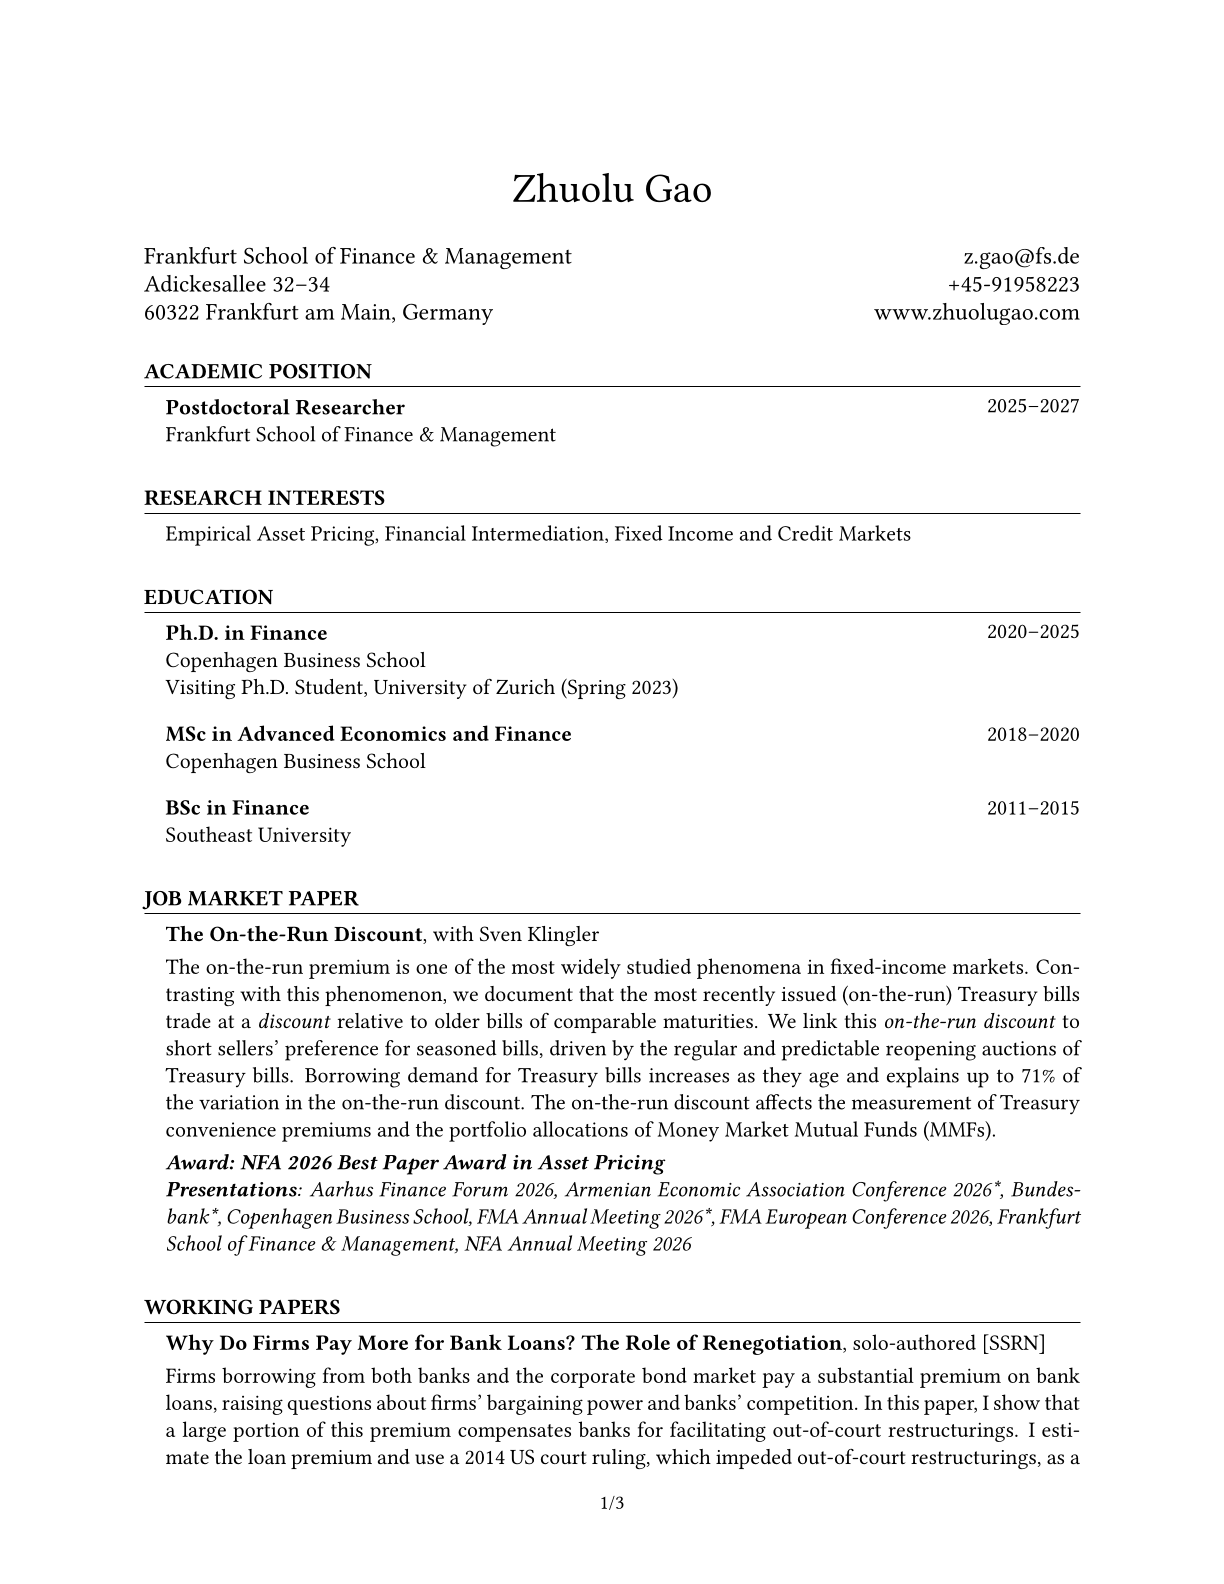
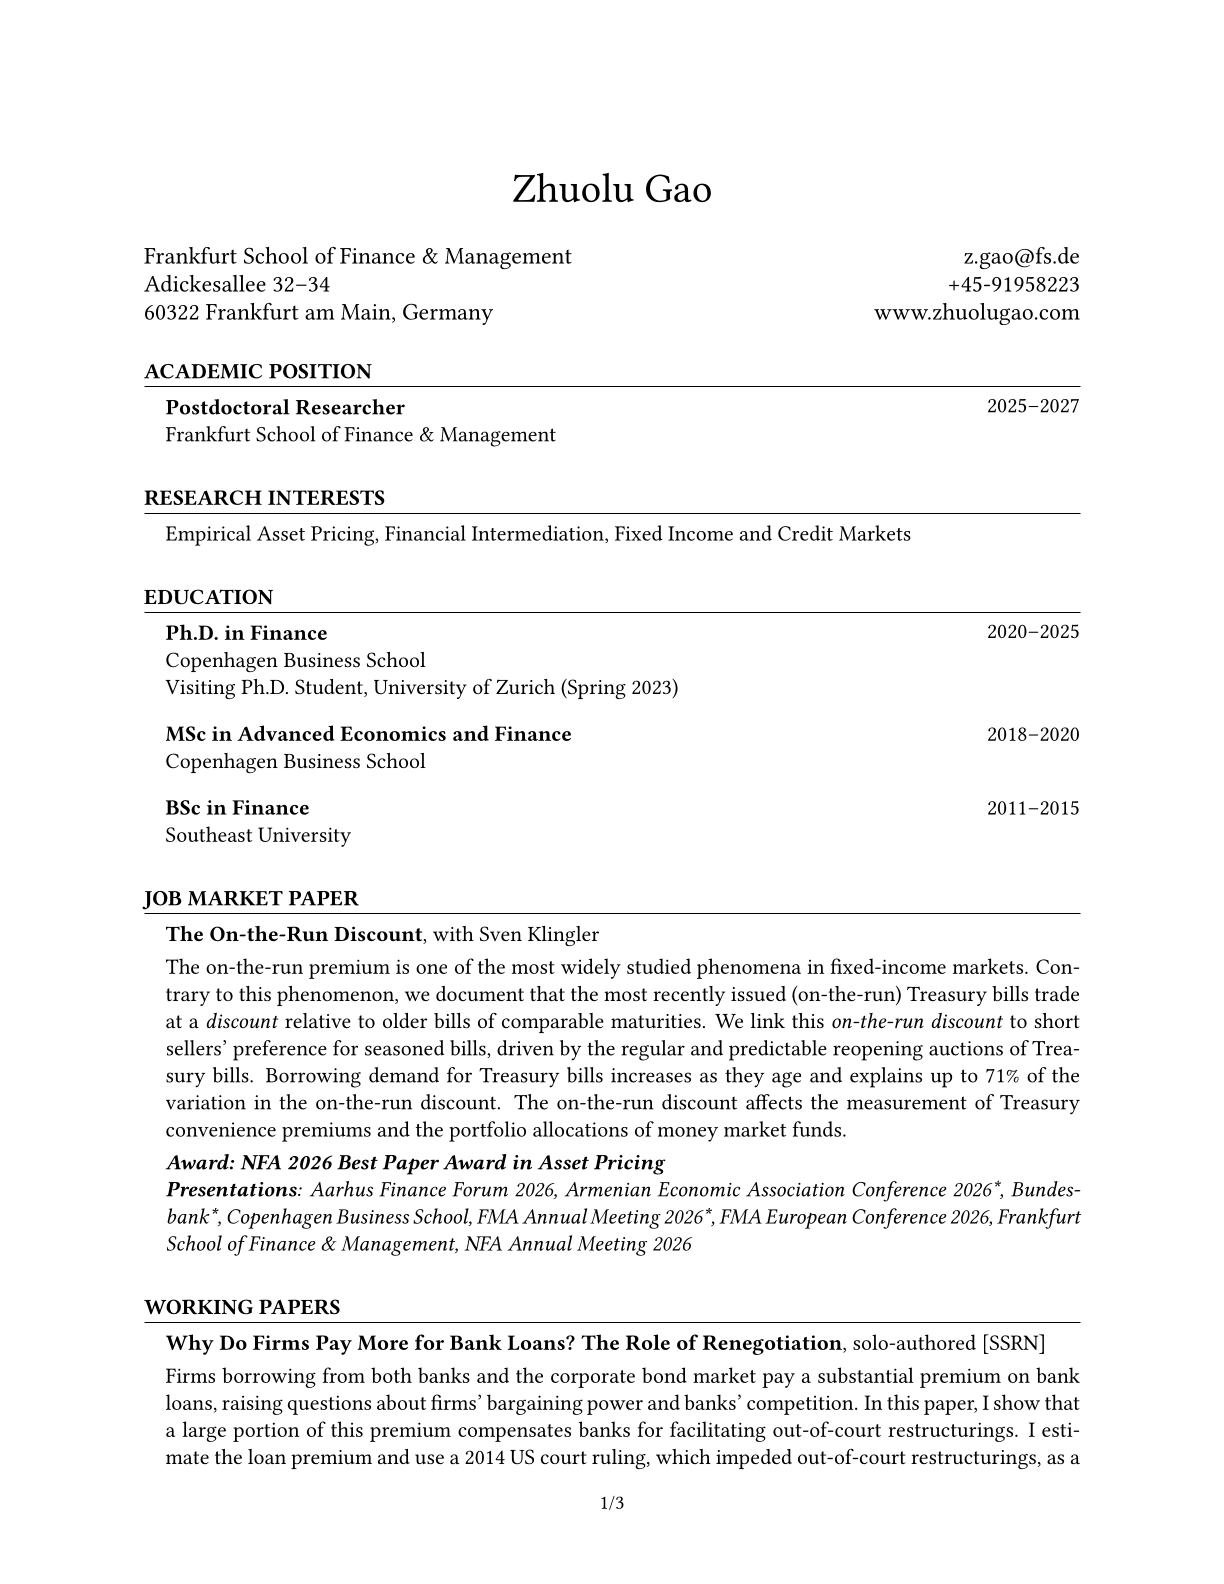
Update CV: JMP abstract matches the 28 Oct version

Changed region(s): [[0.1242, 0.6187, 0.9003, 0.7424]]

diff --git a/_pages/cv.md b/_pages/cv.md
@@ -9,11 +9,11 @@ redirect_from:
 
 {% include base_path %}
 
-[Download my CV (PDF)](/files/CV_ZhuoluGao.pdf?v=20261102-1439)
+[Download my CV (PDF)](/files/CV_ZhuoluGao.pdf?v=20261102-1441)
 
 <div class="cv-pages" aria-label="Curriculum Vitae">
-  <img class="cv-page" src="{{ site.baseurl }}/files/CV_ZhuoluGao-page-1.png?v=20261102-1439" alt="Zhuolu Gao CV, page 1">
-  <img class="cv-page" src="{{ site.baseurl }}/files/CV_ZhuoluGao-page-2.png?v=20261102-1439" alt="Zhuolu Gao CV, page 2" loading="lazy">
-  <img class="cv-page" src="{{ site.baseurl }}/files/CV_ZhuoluGao-page-3.png?v=20261102-1439" alt="Zhuolu Gao CV, page 3" loading="lazy">
+  <img class="cv-page" src="{{ site.baseurl }}/files/CV_ZhuoluGao-page-1.png?v=20261102-1441" alt="Zhuolu Gao CV, page 1">
+  <img class="cv-page" src="{{ site.baseurl }}/files/CV_ZhuoluGao-page-2.png?v=20261102-1441" alt="Zhuolu Gao CV, page 2" loading="lazy">
+  <img class="cv-page" src="{{ site.baseurl }}/files/CV_ZhuoluGao-page-3.png?v=20261102-1441" alt="Zhuolu Gao CV, page 3" loading="lazy">
 </div>
 

diff --git a/_pages/about.md b/_pages/about.md
@@ -11,7 +11,7 @@ I am a Postdoctoral Researcher in Finance at Frankfurt School of Finance & Manag
 
 Research Interests: Empirical Asset Pricing, Financial Intermediation, Fixed Income and Credit Markets.
 
-[Curriculum Vitae](/files/CV_ZhuoluGao.pdf?v=20261102-1439)
+[Curriculum Vitae](/files/CV_ZhuoluGao.pdf?v=20261102-1441)
 
 
 <br/>
